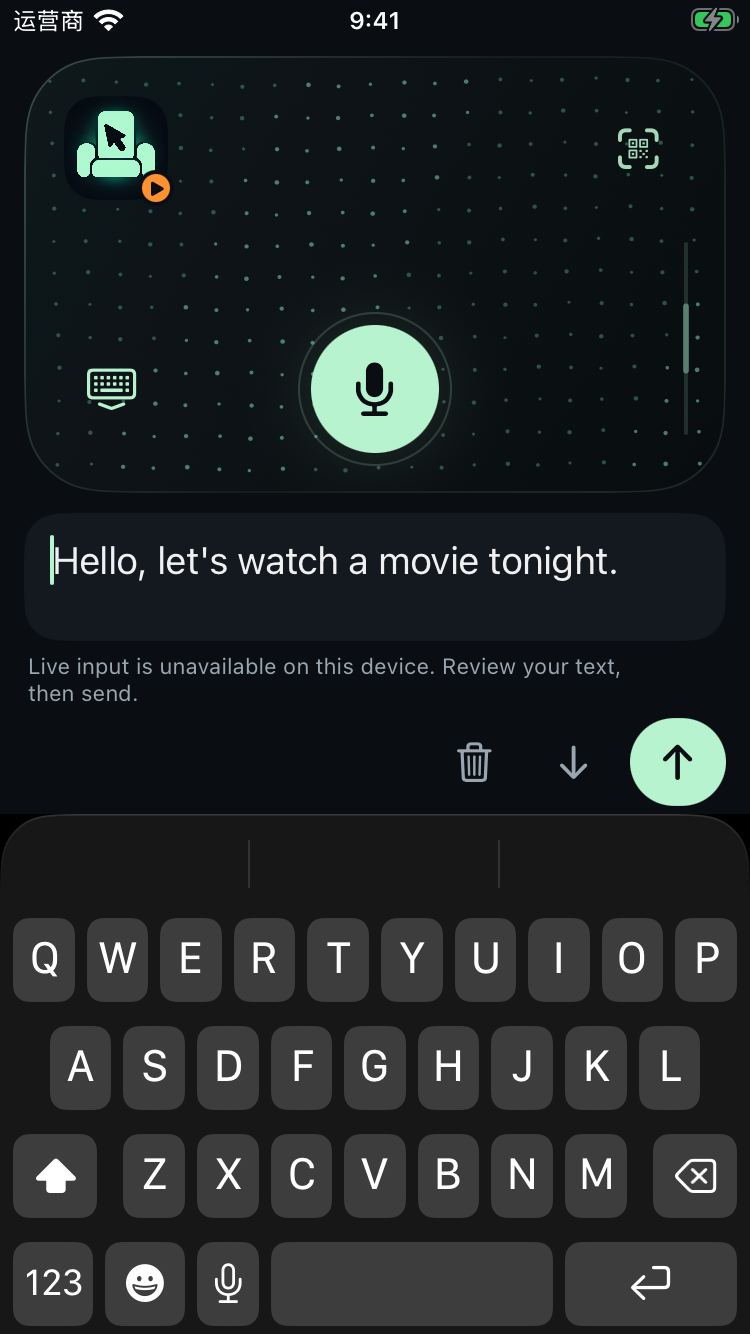
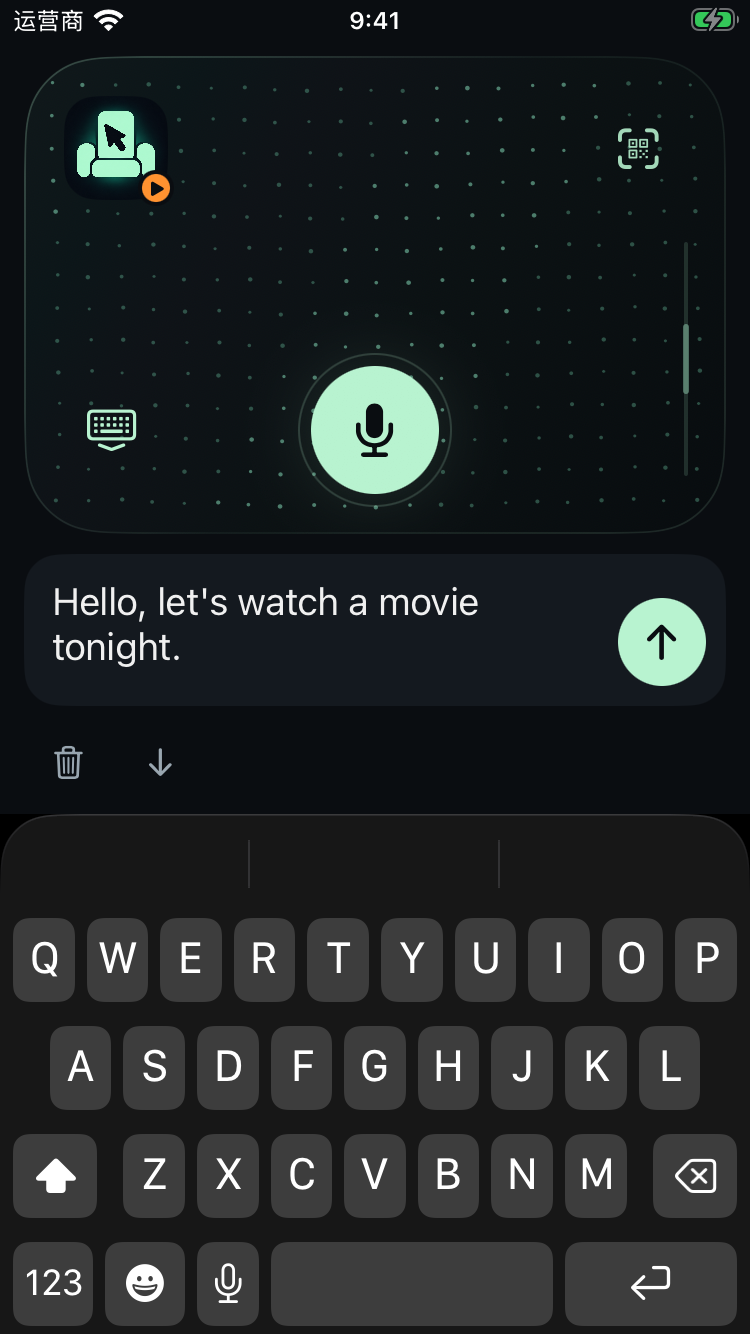
Refine inline composer controls and send button layout

diff --git a/ios/SofaTap/Views/RemoteView.swift b/ios/SofaTap/Views/RemoteView.swift
@@ -65,7 +65,7 @@ struct RemoteView: View {
                 touchpad
                     .frame(maxWidth: .infinity, minHeight: min(170, geometry.size.height * 0.4), maxHeight: .infinity)
                 if composerVisible && !televisionSelected {
-                    composer(height: geometry.size.height < 500 ? 64 : 92)
+                    composer(height: geometry.size.height < 500 ? 76 : 92)
                         .fixedSize(horizontal: false, vertical: true)
                         .layoutPriority(1)
                 }
@@ -427,51 +427,70 @@ struct RemoteView: View {
 
     private func composer(height: Double) -> some View {
         VStack(alignment: .leading, spacing: 6) {
-            ZStack(alignment: .topLeading) {
-                if model.draft.isEmpty {
-                    Text(dictation.isRecording ? String(localized: "正在听…") : model.usesLiveText ? String(localized: "输入或听写，自动同步到电脑") : String(localized: "输入或听写，确认后发送到电脑"))
-                        .font(.system(size: 16)).foregroundStyle(Palette.muted.opacity(0.7))
-                        .padding(14).allowsHitTesting(false)
+            HStack(alignment: .bottom, spacing: 0) {
+                ZStack(alignment: .topLeading) {
+                    if model.draft.isEmpty {
+                        Text(dictation.isRecording ? String(localized: "正在听…") : model.usesLiveText ? String(localized: "输入或听写，自动同步到电脑") : String(localized: "输入或听写，确认后发送到电脑"))
+                            .font(.system(size: 16)).foregroundStyle(Palette.muted.opacity(0.7))
+                            .padding(14).allowsHitTesting(false)
+                    }
+                    NativeDraftEditor(text: $model.draft, composing: $model.composing,
+                                      isFocused: $keyboardFocused,
+                                      disabled: speechBusy || model.editorLoading || (model.usesLiveText && !model.liveTextReady),
+                                      selection: model.usesLiveText ? $model.draftSelection : nil,
+                                      onEdit: { text, selection, marked in model.editText(text, selection: selection, marked: marked) },
+                                      preservesFocusWhileLoading: model.editorLoading,
+                                      liveEditing: model.usesLiveText,
+                                      control: draftEditorControl)
                 }
-                NativeDraftEditor(text: $model.draft, composing: $model.composing,
-                                  isFocused: $keyboardFocused,
-                                  disabled: speechBusy || model.editorLoading || (model.usesLiveText && !model.liveTextReady),
-                                  selection: model.usesLiveText ? $model.draftSelection : nil,
-                                  onEdit: { text, selection, marked in model.editText(text, selection: selection, marked: marked) },
-                                  preservesFocusWhileLoading: model.editorLoading,
-                                  liveEditing: model.usesLiveText,
-                                  control: draftEditorControl)
+                .frame(maxWidth: .infinity, maxHeight: .infinity)
+                // A separate column reserves room for Send, including while the
+                // native editor scrolls or wraps text. Nothing overlays its text.
+                composerSendButton
+                    .padding(.trailing, 10)
+                    .padding(.bottom, 10)
             }
             .frame(height: height)
             .background(Palette.panel, in: RoundedRectangle(cornerRadius: 18))
-            composerNotice
             composerActions
+            composerNotice
         }
     }
 
+    @ViewBuilder
     private var composerNotice: some View {
-        VStack(alignment: .leading, spacing: 3) {
-            if !model.usesLiveText {
-                Text(fallbackInputNotice)
-                    .accessibilityIdentifier("textInputCapability")
-            }
-            // Keep the capability notice visible during dictation and delivery.
-            // Ordinary fallback instructions already appear in that notice.
-            if model.usesLiveText || speechBusy || model.composing || !model.draftWithinLimit || model.sentTextWasEdited || model.textDelivery != .ready {
-                Text(composerStatus)
-                    .foregroundStyle(model.textDelivery == .uncertain ? Color.orange : Palette.muted)
-                    .accessibilityIdentifier("textDeliveryStatus")
-            }
+        if let message = composerMessage {
+            Text(message)
+                .font(.system(size: 11))
+                .foregroundStyle(model.textDelivery == .uncertain ? Color.orange : Palette.muted)
+                .fixedSize(horizontal: false, vertical: true)
+                .padding(.horizontal, 2)
+                .accessibilityIdentifier("textDeliveryStatus")
         }
-        .font(.system(size: 11))
-        .foregroundStyle(Palette.muted)
-        .fixedSize(horizontal: false, vertical: true)
-        .padding(.horizontal, 2)
+    }
+
+    private var composerMessage: String? {
+        // Keep actionable delivery/connection states, without a permanent
+        // capability label under the editor.
+        if model.textDelivery == .uncertain || model.liveTextPaused { return model.textStatus }
+        if !model.controlAvailable { return String(localized: "未连接电脑，草稿会保留在手机上。") }
+        if model.remoteTextFocus == .protected || model.editorLoading || speechBusy || model.composing || !model.draftWithinLimit || model.sentTextWasEdited || model.textDelivery != .ready {
+            return composerStatus
+        }
+        return nil
     }
 
     private var composerActions: some View {
-        HStack(spacing: 6) {
-            Spacer(minLength: 0)
+        HStack(spacing: 2) {
+            composerIcon("trash", label: String(localized: "清空草稿"), identifier: "clearTextDraft") {
+                interruptTouch(); clearAlert = true
+            }
+            .disabled(model.draft.isEmpty || model.composing || model.sendingText || speechBusy || (model.usesLiveText && !model.liveTextReady))
+            composerIcon("arrow.down", label: String(localized: "收起键盘"), identifier: "hideKeyboard") {
+                keyboardFocused = false
+                cancelSpeech()
+            }
+            .disabled(!keyboardFocused && !speechBusy)
             if model.liveTextPaused {
                 composerIcon("arrow.clockwise", label: String(localized: "检查电脑后重新读取输入框"), identifier: "resumeLiveText") {
                     model.restartLiveTextEditing()
@@ -482,38 +501,33 @@ struct RemoteView: View {
                 }
                 .disabled(model.sendingText || speechBusy)
             }
-            composerIcon("trash", label: String(localized: "清空草稿"), identifier: "clearTextDraft") {
-                interruptTouch(); clearAlert = true
-            }
-            .disabled(model.draft.isEmpty || model.composing || model.sendingText || speechBusy || (model.usesLiveText && !model.liveTextReady))
-            composerIcon("arrow.down", label: String(localized: "收起键盘"), identifier: "hideKeyboard") {
-                keyboardFocused = false
-                cancelSpeech()
-            }
-            .disabled(!keyboardFocused && !speechBusy)
-            Button(action: sendCurrentDraft) {
-                Group {
-                    if model.sendingText { ProgressView().tint(Palette.background) }
-                    else { Image(systemName: model.liveTextReady ? "checkmark" : "arrow.up").font(.system(size: 19, weight: .semibold)) }
-                }
-                .frame(width: 48, height: 44)
-                .foregroundStyle(Palette.background)
-                .background(Palette.mint, in: Capsule())
-                .contentShape(Capsule())
-            }
-            .buttonStyle(.plain)
-            .disabled(!canAttemptSend)
-            .opacity(canAttemptSend || model.sendingText ? 1 : 0.45)
-            .accessibilityLabel(model.usesLiveText ? String(localized: "实时同步") : String(localized: "发送"))
-            .accessibilityIdentifier("sendText")
+            Spacer(minLength: 0)
         }
         .frame(minHeight: 44)
+    }
+
+    private var composerSendButton: some View {
+        Button(action: sendCurrentDraft) {
+            Group {
+                if model.sendingText || model.liveTextStatus == .syncing { ProgressView().tint(Palette.background) }
+                else { Image(systemName: model.liveTextReady ? "checkmark" : "arrow.up").font(.system(size: 19, weight: .semibold)) }
+            }
+            .frame(width: 44, height: 44)
+            .foregroundStyle(Palette.background)
+            .background(Palette.mint, in: Circle())
+            .contentShape(Circle())
+        }
+        .buttonStyle(.plain)
+        .disabled(!canAttemptSend)
+        .opacity(canAttemptSend || model.sendingText ? 1 : 0.45)
+        .accessibilityLabel(model.usesLiveText ? String(localized: "实时同步") : String(localized: "发送"))
+        .accessibilityIdentifier("sendText")
     }
 
     private func composerIcon(_ symbol: String, label: String, identifier: String, action: @escaping () -> Void) -> some View {
         Button(action: action) {
             Image(systemName: symbol)
-                .font(.system(size: 18, weight: .medium))
+                .font(.system(size: 15, weight: .medium))
                 .frame(width: 44, height: 44)
                 .foregroundStyle(Palette.muted)
                 .contentShape(Rectangle())
@@ -527,13 +541,6 @@ struct RemoteView: View {
         // Keep the control stable, including after an ACK. A native keyboard can
         // update its text storage before publishing the binding; flush it first.
         !model.usesLiveText && inputEnabled && !model.sendingText && !speechBusy && model.textDelivery != .uncertain
-    }
-
-    private var fallbackInputNotice: String {
-        if !model.controlAvailable { return String(localized: "未连接电脑，草稿会保留在手机上。") }
-        if !model.receiverState.supportsLiveText { return String(localized: "当前设备不支持实时输入，请确认后发送。") }
-        if model.liveTextStatus == .unsupported { return String(localized: "当前输入框不支持实时输入，请确认后发送。") }
-        return String(localized: "草稿尚未实时同步，请确认后发送。")
     }
 
     private func sendCurrentDraft() {

diff --git a/docs/verification/composer-2026-10-14.md b/docs/verification/composer-2026-10-14.md
@@ -8,7 +8,7 @@ An unsupported field initially used explicit sending. A later focus revision res
 
 After acknowledged text A, continuing with B sends only B. Repeated Send without new text does not duplicate A. Editing an acknowledged prefix preserves the draft and requires an explicit whole-draft resend; fallback input cannot replace computer contents. Uncertain delivery never automatically retries. A delivery receipt uses a digest and UTF-16 prefix length alongside the existing local draft, without adding a second stored copy of the delivered text.
 
-The composer has one row of Clear, Hide Keyboard and Send icon buttons. Clear and the down-arrow hide shortcut use muted icons without backgrounds; Send retains the mint fill. The down arrow is distinct from the keyboard control inside the pad. The capability/status notice remains below the editor; the character counter and duplicate keyboard accessory toolbar are removed. Only the text editor scrolls, so the action row cannot scroll offscreen. The strip inside the touchpad’s right edge has a separate 44-point touch target and emits bounded relative scrolling, with cancellation on inactivity, target change or multiple touches. Its indicator follows the finger, not the remote document position. An unavailable strip consumes touches without sending input, so they cannot fall through to pointer movement or clicks beneath it.
+The circular mint Send button sits inside the input panel on the right, in a separate 54-point column including its outer inset. Text and its caret stay in the editor column and cannot run underneath Send. The smaller 15-point Clear and down-arrow hide icons sit below the input box on the left, with 44-point touch targets and no backgrounds. The down arrow is distinct from the keyboard control inside the pad. The permanent capability caption, character counter and duplicate keyboard accessory toolbar are removed. Actionable connection, protected-field, loading and delivery notices remain available; pending live updates show a spinner. Only the text editor scrolls, so Send and the secondary actions cannot scroll offscreen. The strip inside the touchpad’s right edge has a separate 44-point touch target and emits bounded relative scrolling, with cancellation on inactivity, target change or multiple touches. Its indicator follows the finger, not the remote document position. An unavailable strip consumes touches without sending input, so they cannot fall through to pointer movement or clicks beneath it.
 
 ## Software checks
 
@@ -27,7 +27,7 @@ The composer has one row of Clear, Hide Keyboard and Send icon buttons. Clear an
 
 ## Layout checks
 
-Dedicated headless iPhone SE (3rd generation) and iPhone 17 Pro Max simulators used the network-disabled demo fixture, including the system keyboard. Chinese and English compact layouts kept all three action icons visible directly above the keyboard; the larger layout also fit. The follow-up UI correction places the strip entirely inside the dot-matrix pad, below the QR control, and preserves the full composer width. The down-arrow shortcut and background-free secondary icons were checked with the keyboard shown and hidden. Both temporary simulators were shut down and removed. Simulator.app was not opened, and other tasks' devices and physical desktop input were not used.
+Dedicated headless iPhone SE (3rd generation) and iPhone 17 Pro Max simulators used the network-disabled demo fixture, including the system keyboard. Chinese and English compact layouts kept the inset Send button and the two smaller left-aligned actions visible with the keyboard open; the larger layout also fit. The follow-up UI correction places the strip entirely inside the dot-matrix pad, below the QR control, and preserves the full composer width. The latest compact editor is 76 points tall to accommodate two lines beside the inset Send button, with a 92-point editor on larger screens. The down-arrow shortcut and background-free secondary icons were checked with the keyboard shown and hidden. Both temporary simulators were shut down and removed. Simulator.app was not opened, and other tasks' devices and physical desktop input were not used.
 
 [English compact layout](../images/sofatap-composer-en.png) · [Chinese compact layout](../images/sofatap-composer-zh-CN.png)
 

diff --git a/README.ja.md b/README.ja.md
@@ -31,7 +31,7 @@ Sofatap は [chekusu](https://github.com/chekusu) が開発するオープンソ
 
 以前の [0.7.0 (10) の iPhone・Windows 限定実機検証](docs/verification/realtime-input-0.7.0.md)では、ネイティブ RichEdit の既存文章の読み込み、多言語・絵文字・改行の追記、キーボードでの削除、全選択、空欄までの削除を確認しました。最終ビルドでのリアルタイム音声と追加項目は未検証です。[0.6.0 の記録](docs/verification/2026-10-13-iphone-input.md)にはジェスチャー、マイク認識、明示的な文字送信を別途記載しています。パッケージと公証の確認は実入力の検証とは別です。Bluetooth とクラウド中継は未実装です。[操作仕様と今後の独立 CUA 構想](docs/INTERACTION.md)をご覧ください。
 
-2 本指ではコンテンツをドラッグする感覚で、上へスワイプするとページの下側、下へスワイプすると上側を表示します。タッチ面の内側右端にあるスクロール領域はスクロールバーと同じ方向で、下へなぞるとページの下側へ進みます。入力欄ではクリア・キーボードを閉じる・送信のアイコンをキーボードのすぐ上に並べ、文字数表示を省きました。クリアと下向き矢印のキーボードショートカットには背景を付けず、送信だけをミント色で強調しています。確認後に送信するモードでは、送信済みの下書きに追記した部分だけを次回送信します。[入力欄のプレビュー](docs/images/sofatap-composer-en.png)をご覧ください。
+2 本指ではコンテンツをドラッグする感覚で、上へスワイプするとページの下側、下へスワイプすると上側を表示します。タッチ面の内側右端にあるスクロール領域はスクロールバーと同じ方向で、下へなぞるとページの下側へ進みます。ミント色の丸い送信ボタンは入力欄の内側右端に置き、文字と重ならない専用の余白を確保しています。小さなクリアと下向き矢印のキーボードアイコンは背景なしで入力欄の左下に並べ、文字数やリアルタイム入力の対応状況を常時表示しません。確認後に送信するモードでは、送信済みの下書きに追記した部分だけを次回送信します。[入力欄のプレビュー](docs/images/sofatap-composer-en.png)をご覧ください。
 
 ロゴをタップすると接続の詳細と操作方法を確認できます。入力が必要なときだけタッチ面の下に編集欄が開きます。対応する欄はリアルタイム編集となり、その他は下書きを確認して送信できます。[オフラインのシミュレーター画面](docs/images/sofatap-single-screen.png)と[ドット格子のプレビュー動画](docs/images/sofatap-touch-effects.mp4)をご覧ください。ローカルの描画を示すもので、実機 iPhone の入力や性能の検証結果ではありません。
 

diff --git a/docs/INTERACTION.md b/docs/INTERACTION.md
@@ -10,7 +10,7 @@ The main iPhone screen is one large rounded touch surface. The logo and QR-scann
 - Hold still for **300 ms** to press the left mouse button, then move to drag. Lifting the finger ends the drag. Cancellation, loss of control and leaving the app release the held button; the receiver independently releases owned input on disconnect.
 - Slide two fingers to scroll, or slide one finger along the scroll strip inside the touch surface’s right edge. Two fingers drag the content: an upward swipe reveals content farther down the page, and a downward swipe reveals earlier content. The edge strip follows scrollbar direction: a downward swipe scrolls the page down. These gestures intentionally emit opposite wheel deltas for the same finger movement. The strip reserves a 44-point hit area below the QR control and within the pad, separate from the editor and action buttons, stops on lift/cancellation, and does not report the remote document position.
 
-Pairing remains an occasional sheet, rather than a second everyday control mode. A text composer appears inline below the touch surface only when needed. Clear, hide-keyboard and Send are icon buttons in a single row directly above the keyboard. Clear and the down-arrow hide shortcut use muted icons without backgrounds, while Send retains the mint fill. The Send control remains present when temporarily unavailable; the editor alone scrolls, so its actions cannot scroll offscreen. No character counter or duplicate keyboard toolbar is shown. The notice below the editor distinguishes an unsupported device, an unsupported field and a retained local draft. Existing uncertain-delivery and manual resend safeguards remain available in that composer.
+Pairing remains an occasional sheet, rather than a second everyday control mode. A text composer appears inline below the touch surface only when needed. The circular mint Send button sits inside the editor panel on the right, in a separate fixed-width column so text, its caret and the native scroll indicator cannot overlap it. Smaller muted Clear and down-arrow hide icons sit below the input box on the left, without backgrounds, while retaining 44-point touch targets. The Send control remains present when temporarily unavailable; only the text editor scrolls. Pending live updates show progress in the same circular control. No character counter, duplicate keyboard toolbar or permanent live-input capability caption is shown. Notices appear only for actionable connection, protected-field, loading, composition or delivery states. Existing uncertain-delivery and manual resend safeguards remain available in that composer.
 
 ## Touch feedback
 

diff --git a/README.md b/README.md
@@ -31,7 +31,7 @@ A one-minute tour of pointer gestures, typing on the phone keyboard and voice di
 
 Earlier [scoped 0.7.0 (10) iPhone-to-Windows checks](docs/verification/realtime-input-0.7.0.md) passed existing-text import, multilingual/emoji/newline append, keyboard deletion, Select All and deletion to empty in a native RichEdit field. Final-build live speech and further cases remain pending. The [0.6.0 record](docs/verification/2026-10-13-iphone-input.md) separately covers gestures, microphone dictation and explicit text sending. Receiver packaging and notarization checks do not replace physical input acceptance. Bluetooth and a hosted relay service are not implemented. See the [interaction specification and future standalone CUA direction](docs/INTERACTION.md).
 
-Two-finger scrolling follows the content: slide up to see farther down the page, or down to see earlier content. The strip inside the touch surface’s right edge follows scrollbar direction: slide down to scroll down. The input area keeps Clear, Hide Keyboard and Send as compact icon buttons above the keyboard, with no character counter. Clear and the down-arrow keyboard shortcut are secondary icons without backgrounds; Send keeps the mint fill. In review-and-send mode, continuing an acknowledged draft sends only the added text. [See the composer preview](docs/images/sofatap-composer-en.png).
+Two-finger scrolling follows the content: slide up to see farther down the page, or down to see earlier content. The strip inside the touch surface’s right edge follows scrollbar direction: slide down to scroll down. The circular mint Send button sits inside the input box with its own space on the right, clear of the text. Smaller Clear and down-arrow keyboard icons sit below it on the left, without backgrounds. No character counter or permanent live-input capability caption is shown. In review-and-send mode, continuing an acknowledged draft sends only the added text. [See the composer preview](docs/images/sofatap-composer-en.png).
 
 Tap the logo for connection details and gesture help. The text composer appears only when needed, below the touch surface. Supported fields open as live editors; other fields keep draft review and explicit sending. [View the offline simulator layout](docs/images/sofatap-single-screen.png) and [dot-matrix preview](docs/images/sofatap-touch-effects.mp4). These show local rendering, not physical iPhone input or performance.
 

diff --git a/README.zh-CN.md b/README.zh-CN.md
@@ -31,7 +31,7 @@ Sofatap 是 [chekusu](https://github.com/chekusu) 开发的开源遥控工具。
 
 此前的 [0.7.0 (10) 真机到 Windows 限定验收](docs/verification/realtime-input-0.7.0.md)已通过原生 RichEdit 字段的已有文字导入、多语言／emoji／换行追加、键盘删除、全选和清空；最终构建的实时语音及其他项目仍待验收。[0.6.0 记录](docs/verification/2026-10-13-iphone-input.md)另有手势、麦克风听写和明确发送的结果。接收器打包与公证检查不等于真实输入验收。蓝牙连接和云中继尚未实现。参见[交互规格与后续独立 CUA 方向](docs/INTERACTION.md)。
 
-双指滚动像拖动内容：向上滑查看页面下方，向下滑查看页面上方。点阵触控区内部右侧的滚动条采用滚动条方向：向下拉，页面向下滚动。输入区用一排清空、收起键盘和发送图标贴近键盘，不显示字数计数。清空和向下箭头收起键盘采用无底色的次要图标，发送保留薄荷色背景；确认发送模式下，已发送草稿继续追加后只发送新增文字。[查看输入区预览](docs/images/sofatap-composer-zh-CN.png)。
+双指滚动像拖动内容：向上滑查看页面下方，向下滑查看页面上方。点阵触控区内部右侧的滚动条采用滚动条方向：向下拉，页面向下滚动。薄荷色圆形发送按钮位于输入框右侧内部，独立留白避免遮住文字。清空和向下箭头收起键盘采用更小的无底色图标，放在框下方左侧，不显示字数或常驻实时输入能力提示；确认发送模式下，已发送草稿继续追加后只发送新增文字。[查看输入区预览](docs/images/sofatap-composer-zh-CN.png)。
 
 点击 logo 查看连接详情和手势帮助。需要输入时，编辑区才出现在触控区域下方；受支持的输入框直接实时编辑，其他输入框保留草稿检查与明确发送。[查看离线模拟器界面](docs/images/sofatap-single-screen.png)与[点阵动效预览](docs/images/sofatap-touch-effects.mp4)。这些仅展示本地渲染，不代表真实 iPhone 输入或性能已验证。
 
